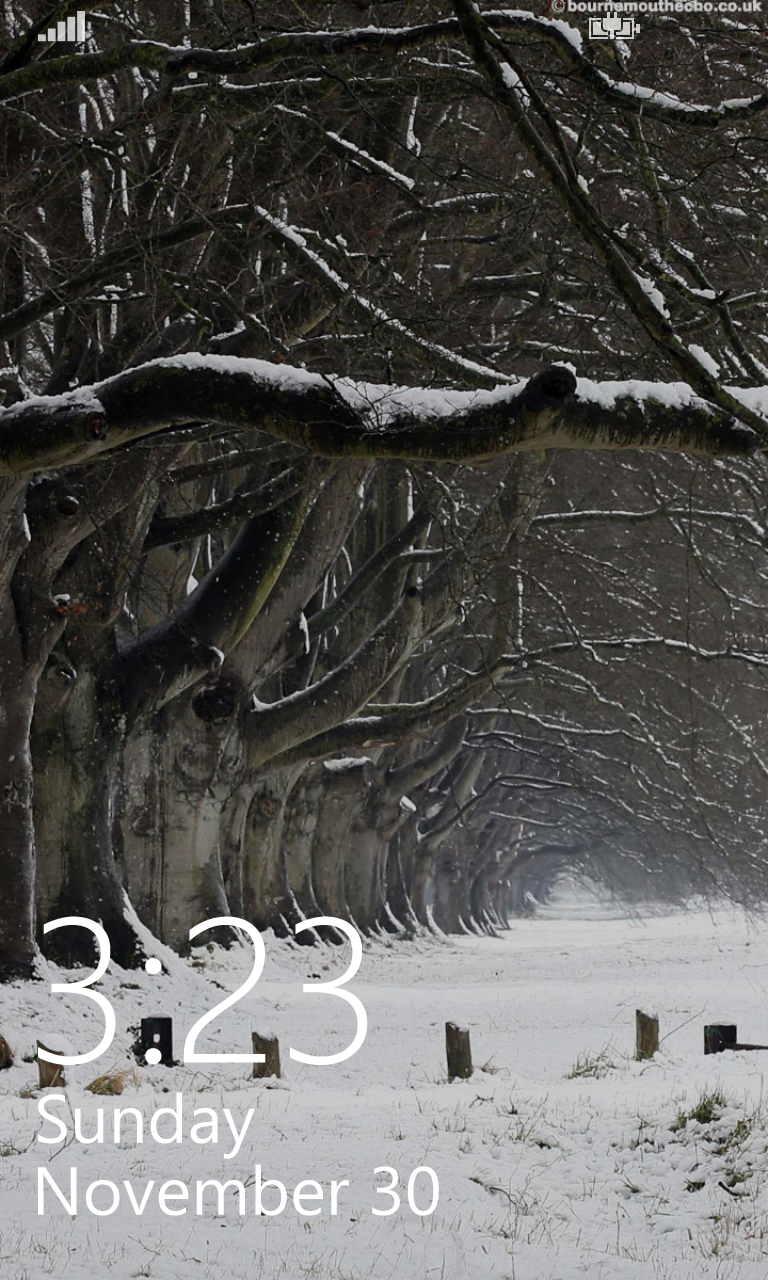
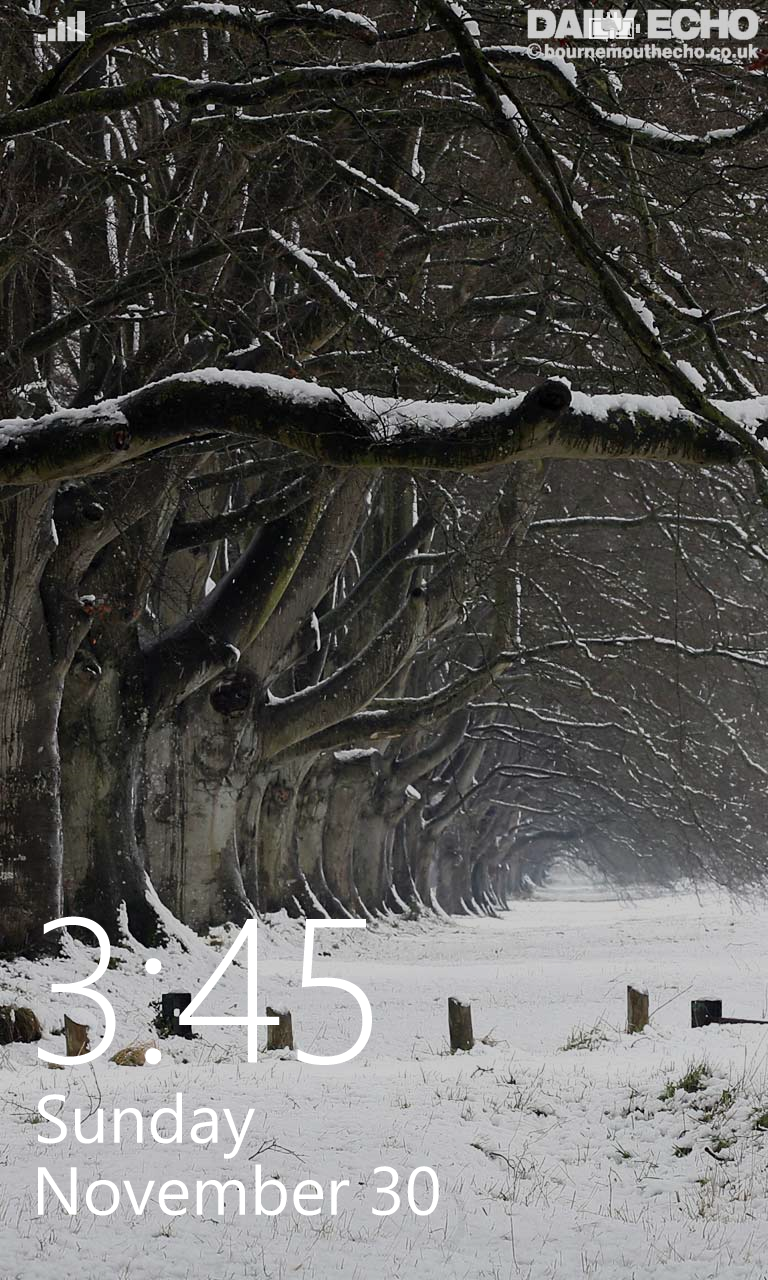
Updated to cater for all WP resolutions

diff --git a/EchoWallpaper.WindowsPhone.Silverlight.Background/Services/LockscreenService.cs b/EchoWallpaper.WindowsPhone.Silverlight.Background/Services/LockscreenService.cs
@@ -8,6 +8,7 @@ using Cimbalino.Toolkit.Services;
 using EchoWallpaper.Core;
 using EchoWallpaper.Core.Interfaces;
 using EchoWallpaper.Core.Model;
+using EchoWallpaper.WindowsPhone.Silverlight.Background.Extensions;
 using ScottIsAFool.WindowsPhone.Logging;
 
 namespace EchoWallpaper.WindowsPhone.Silverlight.Background.Services
@@ -21,12 +22,14 @@ namespace EchoWallpaper.WindowsPhone.Silverlight.Background.Services
         private const string DefaultLockScreenImageFormat = "ms-appx:///DefaultLockScreen.jpg";
 
         private readonly IStorageServiceHandler _storage;
+        private readonly IDisplayPropertiesService _display;
         private readonly ILog _logger;
         private static LockscreenService _current;
         public static LockscreenService Current { get { return _current ?? (_current = new LockscreenService()); } }
 
         public LockscreenService()
         {
+            _display = new DisplayPropertiesService();
             _storage = new StorageService().Local;
             _logger = new WPLogger(typeof(LockscreenService));
         }
@@ -98,21 +101,9 @@ namespace EchoWallpaper.WindowsPhone.Silverlight.Background.Services
 
         private async Task DownloadAndSaveImage(Uri uri)
         {
-            using (var client = new HttpClient())
+            using (var stream = await Echo.GetWallpaperStreamAsync(uri))
             {
-                var response = await client.GetAsync(uri);
-                if (!response.IsSuccessStatusCode)
-                {
-                    return;
-                }
-
-                using (var stream = await response.Content.ReadAsStreamAsync())
-                {
-                    using (var fileStream = await _storage.CreateFileAsync(LockScreenFile))
-                    {
-                        await stream.CopyToAsync(fileStream);
-                    }
-                }
+                await SetLockScreen(stream);
             }
         }
 
@@ -142,7 +133,21 @@ namespace EchoWallpaper.WindowsPhone.Silverlight.Background.Services
 
         public Uri ImageUriToUse(Wallpapers wallpapers)
         {
-            return wallpapers != null ? wallpapers.HdNoCalendar : null;
+            var res = _display.ToScreenResolution();
+
+            switch (res)
+            {
+                case ScreenInfoServiceResolution.HD1080p:
+                    return wallpapers.HdNoCalendar;
+                case ScreenInfoServiceResolution.HD720p:
+                    return wallpapers.SevenTwentyP;
+                case ScreenInfoServiceResolution.WVGA:
+                    return wallpapers.Wvga;
+                case ScreenInfoServiceResolution.WXGA:
+                    return wallpapers.Wxga;
+                default:
+                    return null;
+            }
         }
     }
 }

diff --git a/EchoWallpaper.WindowsPhone.Silverlight.Background/Extensions/DisplayExtensions.cs b/EchoWallpaper.WindowsPhone.Silverlight.Background/Extensions/DisplayExtensions.cs
@@ -1,0 +1,54 @@
+using System;
+using Cimbalino.Toolkit.Services;
+
+namespace EchoWallpaper.WindowsPhone.Silverlight.Background.Extensions
+{
+    public static class DisplayExtensions
+    {
+        public static ScreenInfoServiceResolution ToScreenResolution(this IDisplayPropertiesService displayProperties)
+        {
+            if(displayProperties == null) return ScreenInfoServiceResolution.Unknown;
+
+            var physicalScreenResolution = displayProperties.PhysicalBounds;
+
+            var scaleFactor = (int)(physicalScreenResolution.Width / 4.8);
+            if (Enum.IsDefined(typeof(ScreenInfoServiceResolution), scaleFactor))
+            {
+                return (ScreenInfoServiceResolution)scaleFactor;
+            }
+
+            return ScreenInfoServiceResolution.Unknown;
+        }
+    }
+
+    /// <summary>
+    /// Describes the device resolution.
+    /// </summary>
+    public enum ScreenInfoServiceResolution
+    {
+        /// <summary>
+        /// The device has an unknown resolution.
+        /// </summary>
+        Unknown = 0,
+
+        /// <summary>
+        /// The device has a WVGA (480x800) resolution.
+        /// </summary>
+        WVGA = 100,
+
+        /// <summary>
+        /// The device has a HD 720p (720x1280) resolution.
+        /// </summary>
+        HD720p = 150,
+
+        /// <summary>
+        /// The device has a WXGA (768x1280) resolution.
+        /// </summary>
+        WXGA = 160,
+
+        /// <summary>
+        /// The device has a HD 1080p (1080x1920) resolution.
+        /// </summary>
+        HD1080p = 225
+    }
+}

diff --git a/EchoWallpaper.Core/Echo.cs b/EchoWallpaper.Core/Echo.cs
@@ -112,6 +112,15 @@ namespace EchoWallpaper.Core
                         case "iPhone, no calendar":
                             result.IphoneNoCalendar = uri;
                             break;
+                        case "720x1280":
+                            result.SevenTwentyP = uri;
+                            break;
+                        case "768x1280":
+                            result.Wxga = uri;
+                            break;
+                        case "480x800":
+                            result.Wvga = uri;
+                            break;
                     }
                 }
             }

diff --git a/EchoWallpaper.Core/Model/Wallpapers.cs b/EchoWallpaper.Core/Model/Wallpapers.cs
@@ -23,5 +23,8 @@ namespace EchoWallpaper.Core.Model
         public Uri AndroidLandscape { get; set; }
         public Uri HdNoCalendar { get; set; }
         public Uri IphoneNoCalendar { get; set; }
+        public Uri Wvga { get; set; }
+        public Uri Wxga { get; set; }
+        public Uri SevenTwentyP { get; set; }
     }
 }
